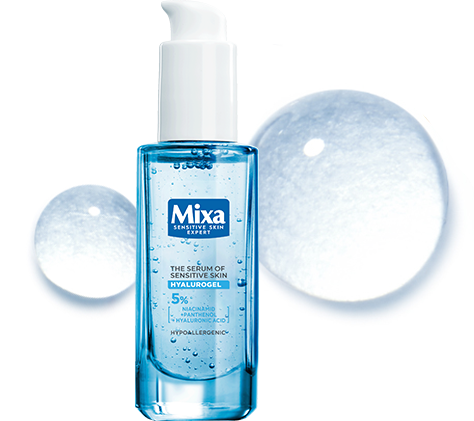
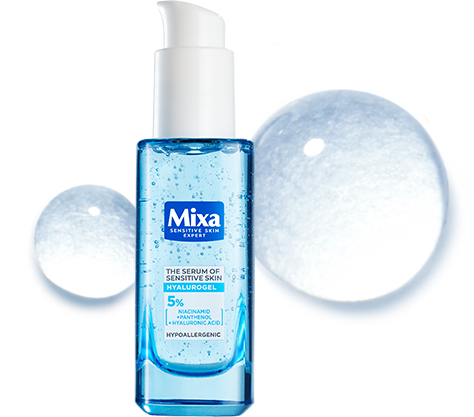
fix: update all packshots for the serum

diff --git a/index.html b/index.html
@@ -59,7 +59,7 @@
       <div class="es-benefits">
         <div class="es-benefits__container">
           <div class="es-benefits__image">
-            <img src="./images/photo-benefits.png" alt="" class="es-benefits__img es-benefits__img--image" />
+            <img src="./images/photo-benefits.jpg" alt="" class="es-benefits__img es-benefits__img--image" />
           </div>
           <div class="es-benefits__content">
             <div class="es-benefits__benefit">
@@ -131,7 +131,7 @@
             </div>
           </div>
           <div class="es-features__image">
-            <img src="./images/photo-features.png" alt="" class="es-features__img" />
+            <img src="./images/photo-features.jpg" alt="" class="es-features__img" />
           </div>
         </div>
       </div>
@@ -140,7 +140,7 @@
         <p class="es-info__title">Potwierdzona skuteczność</p>
         <div class="es-info__container">
           <div class="es-info__image">
-            <img src="./images/photo-info.png" alt="" class="es-info__img es-info__img--image" />
+            <img src="./images/photo-info.jpg" alt="" class="es-info__img es-info__img--image" />
           </div>
           <div class="es-info__info">
             <div class="es-info__content">

diff --git a/styles/style.css b/styles/style.css
@@ -781,7 +781,7 @@ body {
     max-width: 608px;
   }
   #es-rc #es-rc-content .es-reviews__wrapper {
-    background: url("../images/photo-opinions.png") no-repeat;
+    background: url("../images/photo-opinions.jpg") no-repeat;
     background-position: top right;
   }
 }

diff --git a/styles/style.scss b/styles/style.scss
@@ -709,7 +709,7 @@ body {
         max-width: 608px;
       }
       &__wrapper {
-        background: url("../images/photo-opinions.png") no-repeat;
+        background: url("../images/photo-opinions.jpg") no-repeat;
         background-position: top right;
       }
     }
